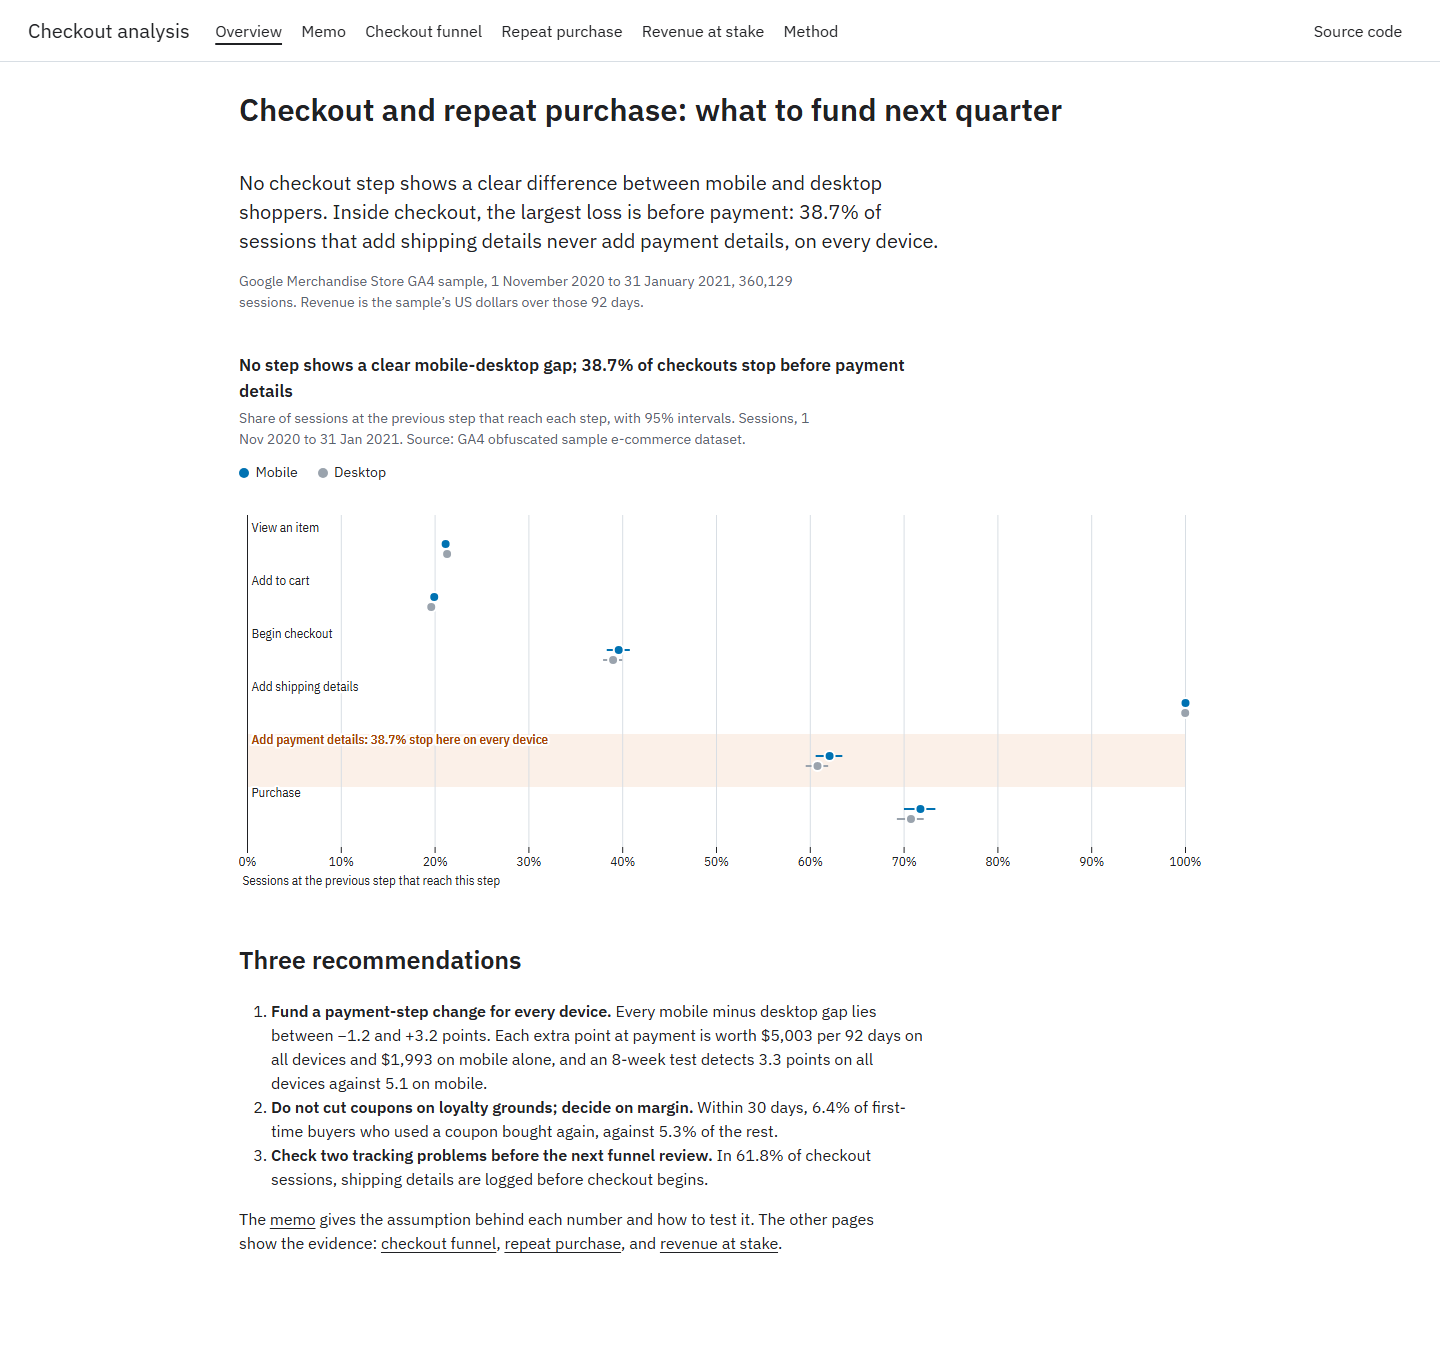
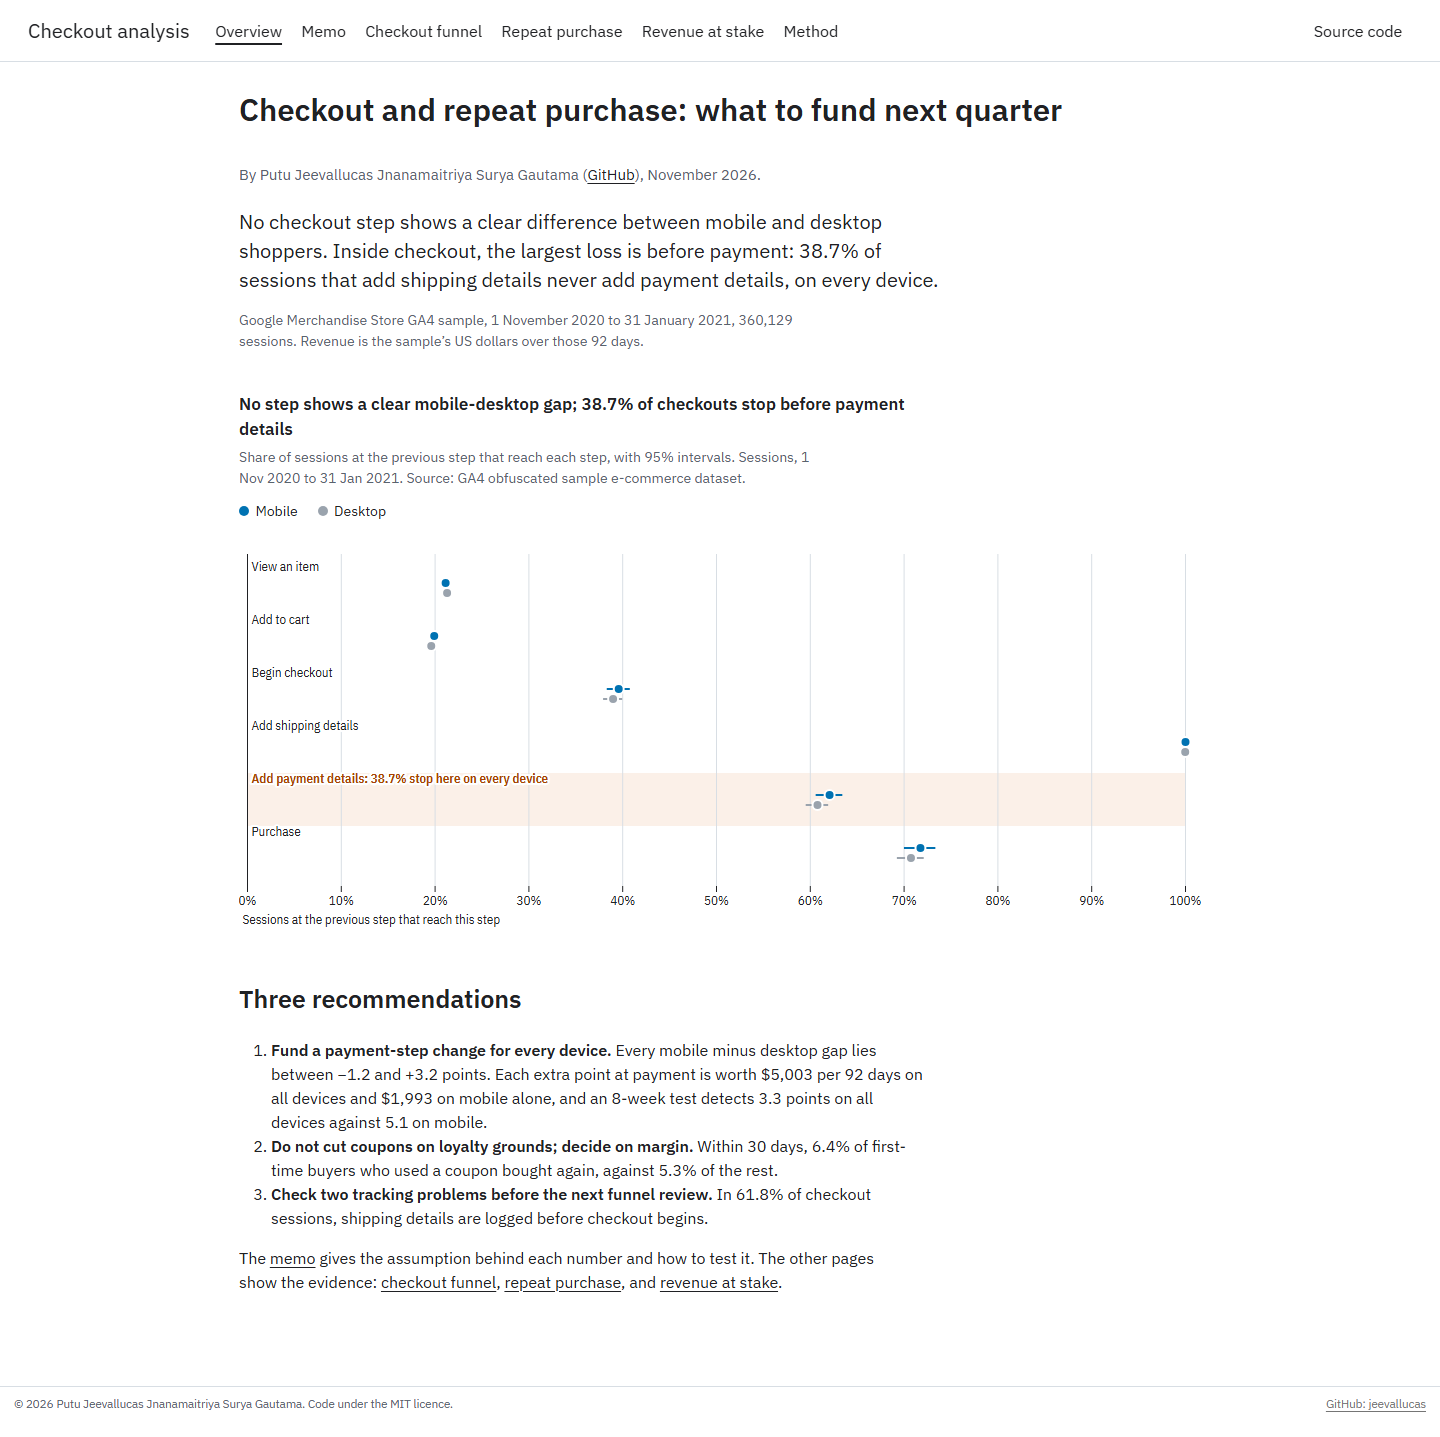
Credit the author on the report, the memo and the README
The overview carries a byline, every page a copyright footer and an
author meta tag, so a reader who never opens GitHub can see whose work
it is.

diff --git a/report/theme.scss b/report/theme.scss
@@ -65,6 +65,18 @@ main li,
   max-width: 60ch;
 }
 
+.byline {
+  color: $text-muted;
+  font-size: 0.9375rem;
+  margin: -0.25rem 0 1.25rem;
+}
+
+.nav-footer {
+  font-size: 0.875rem;
+  color: $text-muted;
+  border-top: 1px solid $border-color;
+}
+
 .source-line {
   color: $text-muted;
   font-size: 0.875rem;

diff --git a/README.md b/README.md
@@ -3,6 +3,8 @@
 An analysis that tells the growth lead of an online merchandise store which checkout step to fund
 next quarter, and whether coupon buyers come back as often as other first-time buyers.
 
+By Putu Jeevallucas Jnanamaitriya Surya Gautama ([@jeevallucas](https://github.com/jeevallucas)).
+
 [![CI](https://github.com/jeevallucas/p01-checkout-funnel/actions/workflows/ci.yml/badge.svg)](https://github.com/jeevallucas/p01-checkout-funnel/actions/workflows/ci.yml)
 [![Report](https://github.com/jeevallucas/p01-checkout-funnel/actions/workflows/report.yml/badge.svg)](https://jeevallucas.github.io/p01-checkout-funnel/)
 [![Licence: MIT](https://img.shields.io/badge/licence-MIT-informational)](LICENSE)

diff --git a/docs/memo.md b/docs/memo.md
@@ -1,8 +1,8 @@
 # Checkout and repeat purchase: what to fund next quarter
 
-For the growth lead. Based on the Google Merchandise Store GA4 sample, 1 November 2020 to
-31 January 2021 (92 days, 360,129 sessions, 5,357 orders). Revenue figures are the sample's US
-dollars over those 92 days.
+Prepared by Putu Jeevallucas Jnanamaitriya Surya Gautama for the growth lead. Based on the
+Google Merchandise Store GA4 sample, 1 November 2020 to 31 January 2021 (92 days, 360,129
+sessions, 5,357 orders). Revenue figures are the sample's US dollars over those 92 days.
 
 ## The answer
 
